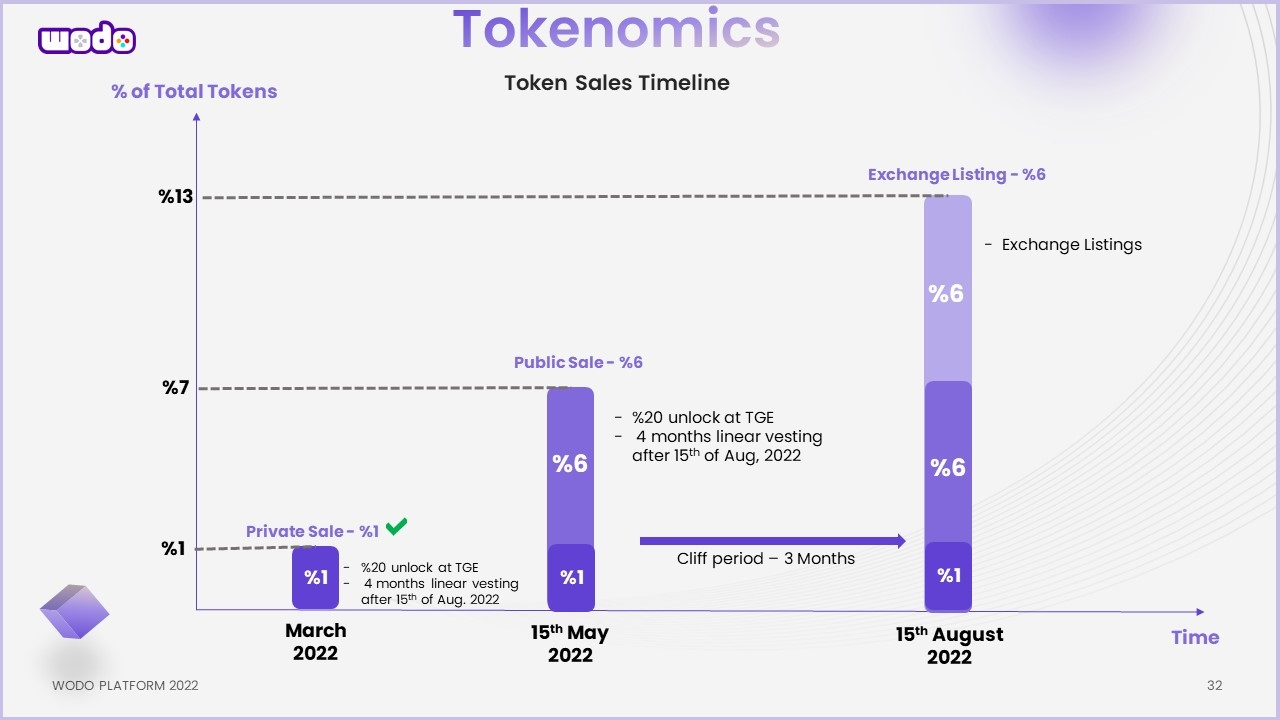
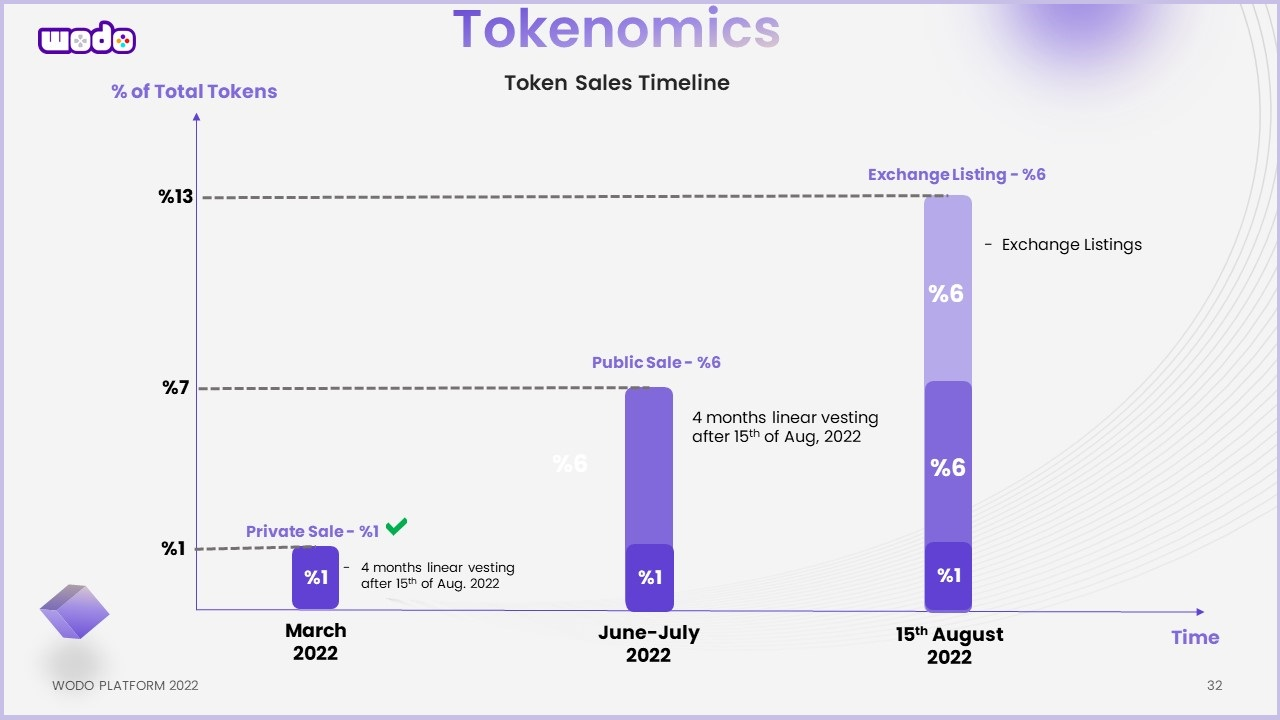
GitBook: [#522] No subject

Changed region(s): [[0.2812, 0.4889, 0.7188, 0.9167], [0.0, 0.9778, 1.0, 1.0]]

diff --git a/docs/tokenomics/wodo-gaming-token/README.md b/docs/tokenomics/wodo-gaming-token/README.md
@@ -24,18 +24,18 @@ The fixed-capped total supply is **1.000.000.000** (billion) XWGT. **%20** of th
 
 ### **Token Distribution**
 
-| Category                  | Allocation | Description                                                               |
-| ------------------------- | ---------- | ------------------------------------------------------------------------- |
-| Play to earn:             | **20%**    | Locked, reserved for play to earn rewards distributions                   |
-| Company reserve:          | **27%**    | Locked, reserved for company foundation.                                  |
-| Team                      | **15%**    | Locked, reserved for the  dev team                                        |
-| Strategic                 | **10%**    | %60 unlocked TGE, %40 locked for liquidity pools and investments          |
-| Marketing & Social media: | **12%**    | Locked, reserved for marketing plans                                      |
-| Airdrop                   | **2%**     | Locked, reserved for bounty events                                        |
-| Advisors                  | **1%**     | Locked, reserved for advisors                                             |
-| **Private Sale**          | **1%**     | Locked, %20 freeup at TGE, 4 months linear vesting at exchange listing,   |
-| **Public Sale**           | **6%**     | Locked, %20 freeup at TGE, 4 months linear vesting at exchange listing,   |
-| **Exhange Listing**       | **6%**     | Reserved for exchange listing                                             |
+| Category                  | Allocation | Description                                                      |
+| ------------------------- | ---------- | ---------------------------------------------------------------- |
+| Play to earn:             | **20%**    | Locked, reserved for play to earn rewards distributions          |
+| Company reserve:          | **27%**    | Locked, reserved for company foundation.                         |
+| Team                      | **15%**    | Locked, reserved for the  dev team                               |
+| Strategic                 | **10%**    | %60 unlocked TGE, %40 locked for liquidity pools and investments |
+| Marketing & Social media: | **12%**    | Locked, reserved for marketing plans                             |
+| Airdrop                   | **2%**     | Locked, reserved for bounty events                               |
+| Advisors                  | **1%**     | Locked, reserved for advisors                                    |
+| **Private Sale**          | **1%**     | Locked, 4 months linear vesting at exchange listing,             |
+| **Public Sale**           | **6%**     | Locked, 4 months linear vesting at exchange listing,             |
+| **Exhange Listing**       | **6%**     | Reserved for exchange listing                                    |
 
 ![](../../.gitbook/assets/Slide26.JPG)
 
@@ -55,7 +55,7 @@ The fixed-capped total supply is **1.000.000.000** (billion) XWGT. **%20** of th
 
 Locked XWGT tokens are locked and will be released based on precise vesting schedules in order to protect our investors and keep token valuation steady over the course of time.&#x20;
 
-![Token Sles Schedule](<../../.gitbook/assets/wodo\_token\_timeline (1).jpg>)
+![Token Sles Schedule](../../.gitbook/assets/wodo\_token\_timeline.jpg)
 
 Blue bars depict the amount of total circulated(unlocked) tokens over quarters and years in the graph below.&#x20;
 
